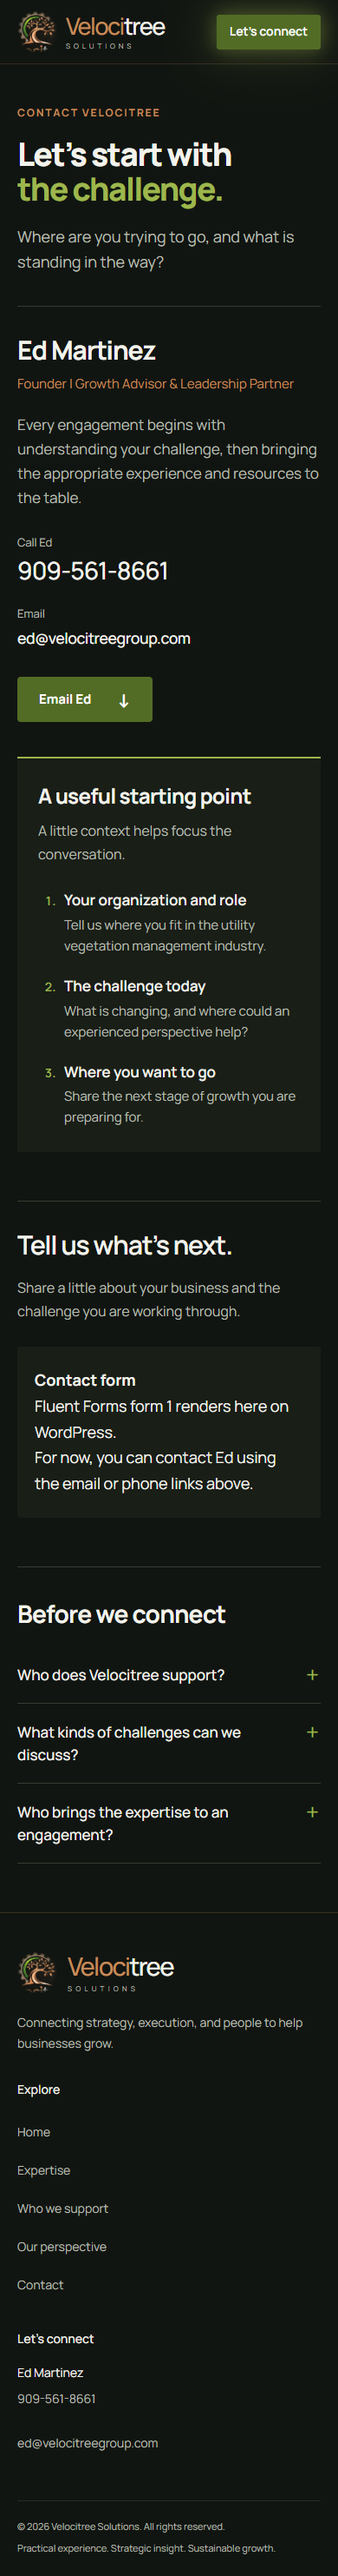
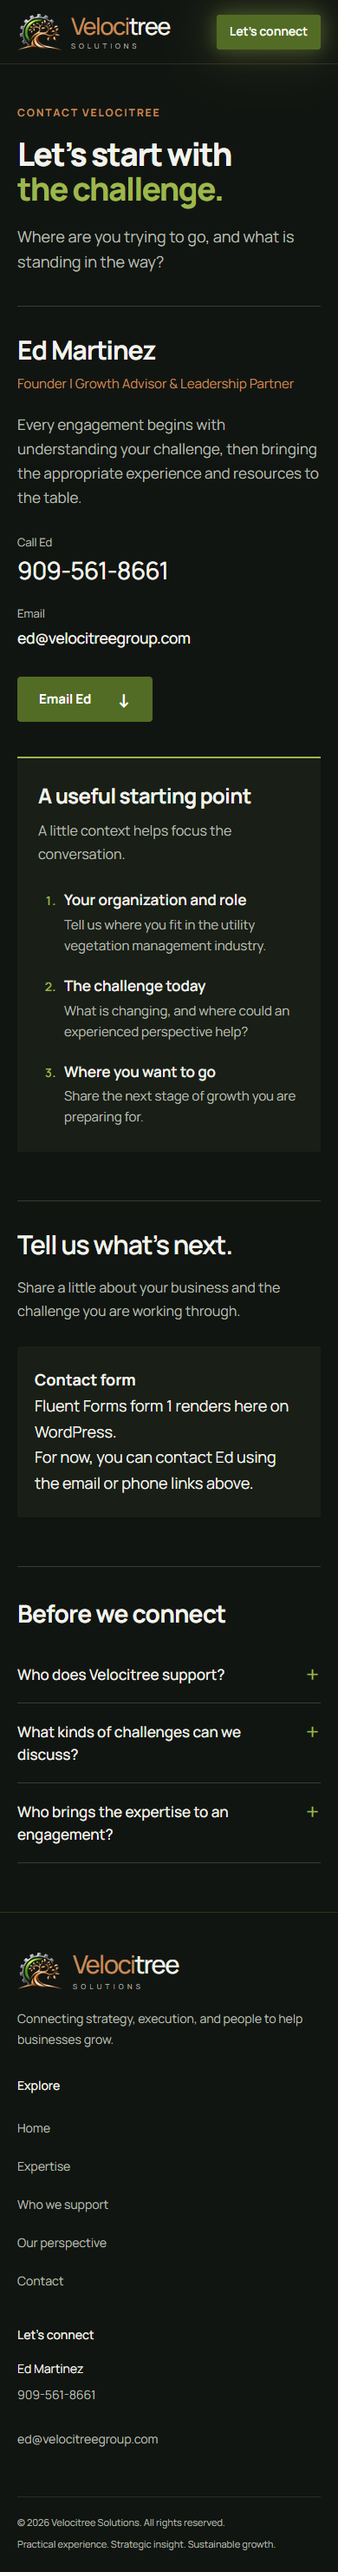
photo updates

diff --git a/velocitree/preview/velocitree-home-preview.html b/velocitree/preview/velocitree-home-preview.html
@@ -59,27 +59,22 @@
     flex: 0 0 auto;
     color: #f3f3ec !important;
   }
+  /* The emblem art is pre-trimmed with a transparent field, so it needs no crop or mask. */
   .vts-header .vts-brand-emblem {
-    position: relative;
     display: block;
-    width: 46px;
-    height: 47px;
-    overflow: hidden;
-    flex: 0 0 46px;
-    -webkit-mask-image: radial-gradient(ellipse at center, #000 56%, transparent 74%);
-    mask-image: radial-gradient(ellipse at center, #000 56%, transparent 74%);
+    flex: 0 0 52px;
+    width: 52px;
+    height: 42px;
   }
   .vts-header .vts-brand-emblem img {
-    position: absolute;
-    top: -5px;
-    left: -39px;
     display: block;
-    width: 282px;
-    height: 336px;
+    width: 100%;
+    height: 100%;
     max-width: none;
     margin: 0;
     padding: 0;
     border: 0;
+    object-fit: contain;
   }
   .vts-header .vts-brand-wordmark { display: block; font-size: 27px; font-weight: 500; letter-spacing: -1.45px; line-height: 1; }
   .vts-header .vts-brand-wordmark > span { color: #c38b59 !important; }
@@ -330,6 +325,8 @@
     .vts-hero .vts-hero__actions { margin-top: 22px; gap: 10px; }
     .vts-hero .vts-hero__button { min-width: 0; padding: 12px 21px; min-height: 45px; font-size: 11px; }
   }
+  /* Phones load a pre-cropped portrait frame, so the art is already positioned. */
+  @media (max-width: 480px) { .vts-hero .vts-hero__image { object-position: center 50%; } }
   @media (prefers-reduced-motion: reduce) { .vts-hero .vts-hero__button { transition: none; } }
 
   .vts-footer, .vts-footer * { box-sizing: border-box; }
@@ -351,8 +348,8 @@
   .vts-footer .vts-footer-inner { width: min(1280px, calc(100% - 80px)); margin-inline: auto; }
   .vts-footer .vts-footer-grid { display: grid; grid-template-columns: 1.3fr .65fr 1fr; gap: 76px; }
   .vts-footer .vts-footer-brand { display: inline-flex; align-items: center; gap: 12px; width: fit-content; color: #f3f3ec !important; }
-  .vts-footer .vts-footer-emblem { position: relative; display: block; flex: 0 0 46px; width: 46px; height: 47px; overflow: hidden; -webkit-mask-image: radial-gradient(ellipse at center, #000 56%, transparent 74%); mask-image: radial-gradient(ellipse at center, #000 56%, transparent 74%); }
-  .vts-footer .vts-footer-emblem img { position: absolute; top: -5px; left: -39px; display: block; width: 282px; height: 336px; max-width: none; margin: 0; padding: 0; border: 0; }
+  .vts-footer .vts-footer-emblem { display: block; flex: 0 0 52px; width: 52px; height: 42px; }
+  .vts-footer .vts-footer-emblem img { display: block; width: 100%; height: 100%; max-width: none; margin: 0; padding: 0; border: 0; object-fit: contain; }
   .vts-footer .vts-footer-wordmark { display: block; color: #f3f3ec !important; font-size: 29px; font-weight: 500; line-height: 1; letter-spacing: -1.6px; }
   .vts-footer .vts-footer-wordmark > span { color: #c38b59 !important; }
   .vts-footer .vts-footer-subline { display: block; margin-top: 7px; color: #b8beb1 !important; font-size: 8px; line-height: 1; letter-spacing: 4.3px; text-transform: uppercase; }
@@ -388,13 +385,13 @@
   <script src="../assets/js/shared.js" defer></script>
 </head>
 <body data-vts-preview-page="home">
-<!-- Velocitree GitPress managed header | version 2026-09-11.5 -->
+<!-- Velocitree GitPress managed header | version 2026-09-11.6 -->
 
 <header class="vts-header site-header" id="siteHeader" data-vts-header>
   <a class="vts-skip-link" href="#main-content">Skip to content</a>
   <div class="vts-header-inner">
     <a class="vts-brand" href="velocitree-home-preview.html" aria-label="Velocitree Solutions home">
-      <span class="vts-brand-emblem" aria-hidden="true"><img src="../assets/images/velocitree-logo.webp" width="1149" height="1369" alt=""></span>
+      <span class="vts-brand-emblem" aria-hidden="true"><img src="../assets/images/vts-emblem.webp" srcset="../assets/images/vts-emblem.webp 1x, ../assets/images/vts-emblem-2x.webp 2x, ../assets/images/vts-emblem-3x.webp 3x" width="52" height="42" alt=""></span>
       <span><span class="vts-brand-wordmark"><span>Veloci</span>tree</span><span class="vts-brand-subline">Solutions</span></span>
     </a>
     <nav class="vts-desktop-nav" aria-label="Main navigation">
@@ -414,7 +411,13 @@
 <!-- VTS version 2026-09-09.2 | Client-reference hero; included inside home.html. -->
 
 <section class="vts-hero" aria-labelledby="vts-home-title">
-  <img class="vts-hero__image" src="../assets/images/uvm-hero.webp" width="1672" height="941" alt="Arborist working above a forested utility corridor at sunset" fetchpriority="high">
+  <picture>
+    <source media="(max-width: 480px)" srcset="../assets/images/vts-hero-mobile.webp" width="640" height="941">
+    <img class="vts-hero__image" src="../assets/images/vts-hero-1280.webp"
+         srcset="../assets/images/vts-hero-640.webp 640w, ../assets/images/vts-hero-960.webp 960w, ../assets/images/vts-hero-1280.webp 1280w, ../assets/images/vts-hero-1672.webp 1672w"
+         sizes="(max-width: 767px) 1226px, 100vw"
+         width="1672" height="941" alt="Arborist climbing a tree above a forested utility corridor at sunset" fetchpriority="high">
+  </picture>
   <div class="vts-hero__wrap">
     <div class="vts-hero__copy">
       <h1 class="vts-hero__title" id="vts-home-title">Growth changes<span>the business.</span></h1>
@@ -533,7 +536,7 @@
     <div class="vts-footer-grid">
       <div class="vts-footer-identity">
         <a class="vts-footer-brand" href="velocitree-home-preview.html" aria-label="Velocitree Solutions home">
-          <span class="vts-footer-emblem" aria-hidden="true"><img src="../assets/images/velocitree-logo.webp" width="1149" height="1369" alt="" loading="lazy"></span>
+          <span class="vts-footer-emblem" aria-hidden="true"><img src="../assets/images/vts-emblem.webp" srcset="../assets/images/vts-emblem.webp 1x, ../assets/images/vts-emblem-2x.webp 2x, ../assets/images/vts-emblem-3x.webp 3x" width="52" height="42" alt="" loading="lazy"></span>
           <span><span class="vts-footer-wordmark"><span>Veloci</span>tree</span><span class="vts-footer-subline">Solutions</span></span>
         </a>
         <p class="vts-footer-description">Connecting strategy, execution, and people to help businesses grow.</p>

diff --git a/velocitree/preview/velocitree-contact-preview.html b/velocitree/preview/velocitree-contact-preview.html
@@ -59,27 +59,22 @@
     flex: 0 0 auto;
     color: #f3f3ec !important;
   }
+  /* The emblem art is pre-trimmed with a transparent field, so it needs no crop or mask. */
   .vts-header .vts-brand-emblem {
-    position: relative;
     display: block;
-    width: 46px;
-    height: 47px;
-    overflow: hidden;
-    flex: 0 0 46px;
-    -webkit-mask-image: radial-gradient(ellipse at center, #000 56%, transparent 74%);
-    mask-image: radial-gradient(ellipse at center, #000 56%, transparent 74%);
+    flex: 0 0 52px;
+    width: 52px;
+    height: 42px;
   }
   .vts-header .vts-brand-emblem img {
-    position: absolute;
-    top: -5px;
-    left: -39px;
     display: block;
-    width: 282px;
-    height: 336px;
+    width: 100%;
+    height: 100%;
     max-width: none;
     margin: 0;
     padding: 0;
     border: 0;
+    object-fit: contain;
   }
   .vts-header .vts-brand-wordmark { display: block; font-size: 27px; font-weight: 500; letter-spacing: -1.45px; line-height: 1; }
   .vts-header .vts-brand-wordmark > span { color: #c38b59 !important; }
@@ -457,8 +452,8 @@
   .vts-footer .vts-footer-inner { width: min(1280px, calc(100% - 80px)); margin-inline: auto; }
   .vts-footer .vts-footer-grid { display: grid; grid-template-columns: 1.3fr .65fr 1fr; gap: 76px; }
   .vts-footer .vts-footer-brand { display: inline-flex; align-items: center; gap: 12px; width: fit-content; color: #f3f3ec !important; }
-  .vts-footer .vts-footer-emblem { position: relative; display: block; flex: 0 0 46px; width: 46px; height: 47px; overflow: hidden; -webkit-mask-image: radial-gradient(ellipse at center, #000 56%, transparent 74%); mask-image: radial-gradient(ellipse at center, #000 56%, transparent 74%); }
-  .vts-footer .vts-footer-emblem img { position: absolute; top: -5px; left: -39px; display: block; width: 282px; height: 336px; max-width: none; margin: 0; padding: 0; border: 0; }
+  .vts-footer .vts-footer-emblem { display: block; flex: 0 0 52px; width: 52px; height: 42px; }
+  .vts-footer .vts-footer-emblem img { display: block; width: 100%; height: 100%; max-width: none; margin: 0; padding: 0; border: 0; object-fit: contain; }
   .vts-footer .vts-footer-wordmark { display: block; color: #f3f3ec !important; font-size: 29px; font-weight: 500; line-height: 1; letter-spacing: -1.6px; }
   .vts-footer .vts-footer-wordmark > span { color: #c38b59 !important; }
   .vts-footer .vts-footer-subline { display: block; margin-top: 7px; color: #b8beb1 !important; font-size: 8px; line-height: 1; letter-spacing: 4.3px; text-transform: uppercase; }
@@ -494,13 +489,13 @@
   <script src="../assets/js/shared.js" defer></script>
 </head>
 <body data-vts-preview-page="contact">
-<!-- Velocitree GitPress managed header | version 2026-09-11.5 -->
+<!-- Velocitree GitPress managed header | version 2026-09-11.6 -->
 
 <header class="vts-header site-header" id="siteHeader" data-vts-header>
   <a class="vts-skip-link" href="#main-content">Skip to content</a>
   <div class="vts-header-inner">
     <a class="vts-brand" href="velocitree-home-preview.html" aria-label="Velocitree Solutions home">
-      <span class="vts-brand-emblem" aria-hidden="true"><img src="../assets/images/velocitree-logo.webp" width="1149" height="1369" alt=""></span>
+      <span class="vts-brand-emblem" aria-hidden="true"><img src="../assets/images/vts-emblem.webp" srcset="../assets/images/vts-emblem.webp 1x, ../assets/images/vts-emblem-2x.webp 2x, ../assets/images/vts-emblem-3x.webp 3x" width="52" height="42" alt=""></span>
       <span><span class="vts-brand-wordmark"><span>Veloci</span>tree</span><span class="vts-brand-subline">Solutions</span></span>
     </a>
     <nav class="vts-desktop-nav" aria-label="Main navigation">
@@ -606,7 +601,7 @@
     <div class="vts-footer-grid">
       <div class="vts-footer-identity">
         <a class="vts-footer-brand" href="velocitree-home-preview.html" aria-label="Velocitree Solutions home">
-          <span class="vts-footer-emblem" aria-hidden="true"><img src="../assets/images/velocitree-logo.webp" width="1149" height="1369" alt="" loading="lazy"></span>
+          <span class="vts-footer-emblem" aria-hidden="true"><img src="../assets/images/vts-emblem.webp" srcset="../assets/images/vts-emblem.webp 1x, ../assets/images/vts-emblem-2x.webp 2x, ../assets/images/vts-emblem-3x.webp 3x" width="52" height="42" alt="" loading="lazy"></span>
           <span><span class="vts-footer-wordmark"><span>Veloci</span>tree</span><span class="vts-footer-subline">Solutions</span></span>
         </a>
         <p class="vts-footer-description">Connecting strategy, execution, and people to help businesses grow.</p>

diff --git a/velocitree/header.html b/velocitree/header.html
@@ -1,4 +1,4 @@
-<!-- Velocitree GitPress managed header | version 2026-09-11.5 -->
+<!-- Velocitree GitPress managed header | version 2026-09-11.6 -->
 <style>
   @font-face { font-family: "VTS Sans"; font-style: normal; font-weight: 400; font-display: swap; src: url("https://raw.githubusercontent.com/citrynmarketingdevelopment/wp-landingpages/main/velocitree/assets/fonts/manrope-400.ttf") format("truetype"); }
   @font-face { font-family: "VTS Sans"; font-style: normal; font-weight: 500; font-display: swap; src: url("https://raw.githubusercontent.com/citrynmarketingdevelopment/wp-landingpages/main/velocitree/assets/fonts/manrope-500.ttf") format("truetype"); }
@@ -46,27 +46,22 @@
     flex: 0 0 auto;
     color: #f3f3ec !important;
   }
+  /* The emblem art is pre-trimmed with a transparent field, so it needs no crop or mask. */
   .vts-header .vts-brand-emblem {
-    position: relative;
     display: block;
-    width: 46px;
-    height: 47px;
-    overflow: hidden;
-    flex: 0 0 46px;
-    -webkit-mask-image: radial-gradient(ellipse at center, #000 56%, transparent 74%);
-    mask-image: radial-gradient(ellipse at center, #000 56%, transparent 74%);
+    flex: 0 0 52px;
+    width: 52px;
+    height: 42px;
   }
   .vts-header .vts-brand-emblem img {
-    position: absolute;
-    top: -5px;
-    left: -39px;
     display: block;
-    width: 282px;
-    height: 336px;
+    width: 100%;
+    height: 100%;
     max-width: none;
     margin: 0;
     padding: 0;
     border: 0;
+    object-fit: contain;
   }
   .vts-header .vts-brand-wordmark { display: block; font-size: 27px; font-weight: 500; letter-spacing: -1.45px; line-height: 1; }
   .vts-header .vts-brand-wordmark > span { color: #c38b59 !important; }
@@ -133,7 +128,7 @@
   <a class="vts-skip-link" href="#main-content">Skip to content</a>
   <div class="vts-header-inner">
     <a class="vts-brand" href="/" aria-label="Velocitree Solutions home">
-      <span class="vts-brand-emblem" aria-hidden="true"><img src="https://raw.githubusercontent.com/citrynmarketingdevelopment/wp-landingpages/main/velocitree/assets/images/velocitree-logo.webp" width="1149" height="1369" alt=""></span>
+      <span class="vts-brand-emblem" aria-hidden="true"><img src="https://raw.githubusercontent.com/citrynmarketingdevelopment/wp-landingpages/main/velocitree/assets/images/vts-emblem.webp" srcset="https://raw.githubusercontent.com/citrynmarketingdevelopment/wp-landingpages/main/velocitree/assets/images/vts-emblem.webp 1x, https://raw.githubusercontent.com/citrynmarketingdevelopment/wp-landingpages/main/velocitree/assets/images/vts-emblem-2x.webp 2x, https://raw.githubusercontent.com/citrynmarketingdevelopment/wp-landingpages/main/velocitree/assets/images/vts-emblem-3x.webp 3x" width="52" height="42" alt=""></span>
       <span><span class="vts-brand-wordmark"><span>Veloci</span>tree</span><span class="vts-brand-subline">Solutions</span></span>
     </a>
     <nav class="vts-desktop-nav" aria-label="Main navigation">

diff --git a/velocitree/footer.html b/velocitree/footer.html
@@ -19,8 +19,8 @@
   .vts-footer .vts-footer-inner { width: min(1280px, calc(100% - 80px)); margin-inline: auto; }
   .vts-footer .vts-footer-grid { display: grid; grid-template-columns: 1.3fr .65fr 1fr; gap: 76px; }
   .vts-footer .vts-footer-brand { display: inline-flex; align-items: center; gap: 12px; width: fit-content; color: #f3f3ec !important; }
-  .vts-footer .vts-footer-emblem { position: relative; display: block; flex: 0 0 46px; width: 46px; height: 47px; overflow: hidden; -webkit-mask-image: radial-gradient(ellipse at center, #000 56%, transparent 74%); mask-image: radial-gradient(ellipse at center, #000 56%, transparent 74%); }
-  .vts-footer .vts-footer-emblem img { position: absolute; top: -5px; left: -39px; display: block; width: 282px; height: 336px; max-width: none; margin: 0; padding: 0; border: 0; }
+  .vts-footer .vts-footer-emblem { display: block; flex: 0 0 52px; width: 52px; height: 42px; }
+  .vts-footer .vts-footer-emblem img { display: block; width: 100%; height: 100%; max-width: none; margin: 0; padding: 0; border: 0; object-fit: contain; }
   .vts-footer .vts-footer-wordmark { display: block; color: #f3f3ec !important; font-size: 29px; font-weight: 500; line-height: 1; letter-spacing: -1.6px; }
   .vts-footer .vts-footer-wordmark > span { color: #c38b59 !important; }
   .vts-footer .vts-footer-subline { display: block; margin-top: 7px; color: #b8beb1 !important; font-size: 8px; line-height: 1; letter-spacing: 4.3px; text-transform: uppercase; }
@@ -57,7 +57,7 @@
     <div class="vts-footer-grid">
       <div class="vts-footer-identity">
         <a class="vts-footer-brand" href="/" aria-label="Velocitree Solutions home">
-          <span class="vts-footer-emblem" aria-hidden="true"><img src="https://raw.githubusercontent.com/citrynmarketingdevelopment/wp-landingpages/main/velocitree/assets/images/velocitree-logo.webp" width="1149" height="1369" alt="" loading="lazy"></span>
+          <span class="vts-footer-emblem" aria-hidden="true"><img src="https://raw.githubusercontent.com/citrynmarketingdevelopment/wp-landingpages/main/velocitree/assets/images/vts-emblem.webp" srcset="https://raw.githubusercontent.com/citrynmarketingdevelopment/wp-landingpages/main/velocitree/assets/images/vts-emblem.webp 1x, https://raw.githubusercontent.com/citrynmarketingdevelopment/wp-landingpages/main/velocitree/assets/images/vts-emblem-2x.webp 2x, https://raw.githubusercontent.com/citrynmarketingdevelopment/wp-landingpages/main/velocitree/assets/images/vts-emblem-3x.webp 3x" width="52" height="42" alt="" loading="lazy"></span>
           <span><span class="vts-footer-wordmark"><span>Veloci</span>tree</span><span class="vts-footer-subline">Solutions</span></span>
         </a>
         <p class="vts-footer-description">Connecting strategy, execution, and people to help businesses grow.</p>

diff --git a/velocitree/home.html b/velocitree/home.html
@@ -192,10 +192,18 @@
     .vts-hero .vts-hero__actions { margin-top: 22px; gap: 10px; }
     .vts-hero .vts-hero__button { min-width: 0; padding: 12px 21px; min-height: 45px; font-size: 11px; }
   }
+  /* Phones load a pre-cropped portrait frame, so the art is already positioned. */
+  @media (max-width: 480px) { .vts-hero .vts-hero__image { object-position: center 50%; } }
   @media (prefers-reduced-motion: reduce) { .vts-hero .vts-hero__button { transition: none; } }
 </style>
 <section class="vts-hero" aria-labelledby="vts-home-title">
-  <img class="vts-hero__image" src="https://raw.githubusercontent.com/citrynmarketingdevelopment/wp-landingpages/main/velocitree/assets/images/uvm-hero.webp" width="1672" height="941" alt="Arborist working above a forested utility corridor at sunset" fetchpriority="high">
+  <picture>
+    <source media="(max-width: 480px)" srcset="https://raw.githubusercontent.com/citrynmarketingdevelopment/wp-landingpages/main/velocitree/assets/images/vts-hero-mobile.webp" width="640" height="941">
+    <img class="vts-hero__image" src="https://raw.githubusercontent.com/citrynmarketingdevelopment/wp-landingpages/main/velocitree/assets/images/vts-hero-1280.webp"
+         srcset="https://raw.githubusercontent.com/citrynmarketingdevelopment/wp-landingpages/main/velocitree/assets/images/vts-hero-640.webp 640w, https://raw.githubusercontent.com/citrynmarketingdevelopment/wp-landingpages/main/velocitree/assets/images/vts-hero-960.webp 960w, https://raw.githubusercontent.com/citrynmarketingdevelopment/wp-landingpages/main/velocitree/assets/images/vts-hero-1280.webp 1280w, https://raw.githubusercontent.com/citrynmarketingdevelopment/wp-landingpages/main/velocitree/assets/images/vts-hero-1672.webp 1672w"
+         sizes="(max-width: 767px) 1226px, 100vw"
+         width="1672" height="941" alt="Arborist climbing a tree above a forested utility corridor at sunset" fetchpriority="high">
+  </picture>
   <div class="vts-hero__wrap">
     <div class="vts-hero__copy">
       <h1 class="vts-hero__title" id="vts-home-title">Growth changes<span>the business.</span></h1>

diff --git a/velocitree/hero.html b/velocitree/hero.html
@@ -36,10 +36,18 @@
     .vts-hero .vts-hero__actions { margin-top: 22px; gap: 10px; }
     .vts-hero .vts-hero__button { min-width: 0; padding: 12px 21px; min-height: 45px; font-size: 11px; }
   }
+  /* Phones load a pre-cropped portrait frame, so the art is already positioned. */
+  @media (max-width: 480px) { .vts-hero .vts-hero__image { object-position: center 50%; } }
   @media (prefers-reduced-motion: reduce) { .vts-hero .vts-hero__button { transition: none; } }
 </style>
 <section class="vts-hero" aria-labelledby="vts-home-title">
-  <img class="vts-hero__image" src="https://raw.githubusercontent.com/citrynmarketingdevelopment/wp-landingpages/main/velocitree/assets/images/uvm-hero.webp" width="1672" height="941" alt="Arborist working above a forested utility corridor at sunset" fetchpriority="high">
+  <picture>
+    <source media="(max-width: 480px)" srcset="https://raw.githubusercontent.com/citrynmarketingdevelopment/wp-landingpages/main/velocitree/assets/images/vts-hero-mobile.webp" width="640" height="941">
+    <img class="vts-hero__image" src="https://raw.githubusercontent.com/citrynmarketingdevelopment/wp-landingpages/main/velocitree/assets/images/vts-hero-1280.webp"
+         srcset="https://raw.githubusercontent.com/citrynmarketingdevelopment/wp-landingpages/main/velocitree/assets/images/vts-hero-640.webp 640w, https://raw.githubusercontent.com/citrynmarketingdevelopment/wp-landingpages/main/velocitree/assets/images/vts-hero-960.webp 960w, https://raw.githubusercontent.com/citrynmarketingdevelopment/wp-landingpages/main/velocitree/assets/images/vts-hero-1280.webp 1280w, https://raw.githubusercontent.com/citrynmarketingdevelopment/wp-landingpages/main/velocitree/assets/images/vts-hero-1672.webp 1672w"
+         sizes="(max-width: 767px) 1226px, 100vw"
+         width="1672" height="941" alt="Arborist climbing a tree above a forested utility corridor at sunset" fetchpriority="high">
+  </picture>
   <div class="vts-hero__wrap">
     <div class="vts-hero__copy">
       <h1 class="vts-hero__title" id="vts-home-title">Growth changes<span>the business.</span></h1>

diff --git a/velocitree/tools/qa_browser.py b/velocitree/tools/qa_browser.py
@@ -108,6 +108,30 @@ with sync_playwright() as p:
     page.goto((ROOT / 'preview/velocitree-home-preview.html').as_uri() + '#technology')
     page.wait_for_function('document.getElementById("technology").open')
     report['checks'].append('home: direct expertise anchor opens on initial load')
+
+    # Responsive art: phones take the pre-cropped portrait frame, wider screens the width ladder,
+    # and the emblem steps up by device pixel ratio.
+    for label, vp, dpr, expect_hero, expect_emblem in (
+        ('phone', {'width': 390, 'height': 844}, 3, 'vts-hero-mobile.webp', 'vts-emblem-3x.webp'),
+        ('phone-2x', {'width': 430, 'height': 932}, 2, 'vts-hero-mobile.webp', 'vts-emblem-2x.webp'),
+        ('tablet', {'width': 768, 'height': 1024}, 2, 'vts-hero-1672.webp', 'vts-emblem-2x.webp'),
+        ('desktop', {'width': 1440, 'height': 900}, 1, 'vts-hero-1672.webp', 'vts-emblem.webp'),
+    ):
+        art = browser.new_context(viewport=vp, device_scale_factor=dpr)
+        art_page = art.new_page()
+        navigate(art_page, 'home')
+        hero = art_page.locator('.vts-hero__image')
+        emblem = art_page.locator('.vts-brand-emblem img')
+        assert hero.evaluate('(e)=>e.currentSrc').endswith(expect_hero), (label, hero.evaluate('(e)=>e.currentSrc'))
+        assert emblem.evaluate('(e)=>e.currentSrc').endswith(expect_emblem), (label, emblem.evaluate('(e)=>e.currentSrc'))
+        assert hero.evaluate('(e)=>e.complete && e.naturalWidth > 0')
+        # The portrait crop is already framed, so it must not be re-offset.
+        pos = hero.evaluate('(e)=>getComputedStyle(e).objectPosition')
+        assert pos == ('50% 50%' if expect_hero == 'vts-hero-mobile.webp' else '50% 43%'), (label, pos)
+        # The emblem keys to transparency; a stray opaque field would break the dark bar.
+        assert emblem.evaluate('(e)=>e.naturalWidth') <= 156
+        report['checks'].append(f'{label}: hero serves {expect_hero} and the emblem serves {expect_emblem}')
+        art.close()
     assert '[fluentform id="1"]' in (ROOT / 'contact.html').read_text(encoding='utf-8')
     navigate(page, 'contact')
     assert page.locator('.vts-contact-form .vts-form-preview').is_visible()

diff --git a/velocitree/README.md b/velocitree/README.md
@@ -90,7 +90,7 @@ The latest September 9 redesign follows the client's hero reference: uppercase t
 
 See `content-audit.md` for a section-by-section comparison against the capability card, including restored content.
 
-The three displayed images use WebP copies of the original PNGs at the same dimensions (Pillow WebP quality 88, method 6). Originals remain in the repository. Combined image payload falls from 6,116,391 to 624,220 bytes, about 90% smaller. A local Lighthouse mobile audit scored 68 performance, 100 accessibility and 96 best practices, with 0 ms total blocking time and 0.001 layout shift. Simulated LCP was 6.6 seconds, so the mobile performance target is not yet met; production hosting, caching and further font/image optimization need separate verification. The standalone previews intentionally remain noindex.
+Displayed images ship as WebP derivatives generated from the supplied originals, which stay in the repository. The header and footer emblem comes from `vts logo only 9.11.webp`: the pure-black field is flood-filled from the edges to transparency (so dark pixels inside the artwork survive), trimmed to the content box, and written at 52x42, 104x84 and 156x126 for 1x/2x/3x `srcset`. Because the field is transparent and pre-trimmed, the emblem no longer needs the radial mask and negative-offset crop the previous square logo required. The hero comes from `VTS climber with logo in sun.webp` at 640, 960, 1280 and 1672 wide (q86 below 1280, q82 at and above). Phones get art direction instead: at 480px and under, a `<picture>` source serves `vts-hero-mobile.webp`, a 640x941 portrait crop taken at the same 85% horizontal position the mobile `object-position` used, with `object-position` reset to centre for that source. The mobile box is 100vw by ~690px, so `object-fit: cover` scales by height and only ~532 source pixels are ever visible; the crop carries exactly those pixels at 86KB instead of 184KB for the full frame, at identical rendered sharpness. Above 480px the width ladder applies with `sizes="(max-width: 767px) 1226px, 100vw"`, the 1226px accounting for that same cover-crop rather than the element width. A local Lighthouse mobile audit of the earlier build scored 68 performance, 100 accessibility and 96 best practices, with 0 ms total blocking time and 0.001 layout shift; simulated LCP was 6.6 seconds, so production hosting, caching and further font optimization still need separate verification. The standalone previews intentionally remain noindex.
 
 Image preparation used the built-in image-generation tool:
 
@@ -100,6 +100,6 @@ Image preparation used the built-in image-generation tool:
 
 ## Deployment verification
 
-Local validation covers 7 HTML files for GitPress boundaries, IDs, asset references and navigation; 37 Chrome browser checks cover both pages at 320, 390, 768, 1024 and 1440px, with and without JavaScript, plus native disclosures, the pinned mobile bar, the single-line header call to action and its resilience against theme CSS overrides, contact navigation, keyboard skip links, reduced-motion rendering, service deep links and the form preview boundary. Full screenshots and `qa-report.json` are in `preview/`. Browser verification can be rerun with `python velocitree/tools/qa_browser.py` after installing the optional `playwright` Python package; it uses installed Google Chrome.
+Local validation covers 7 HTML files for GitPress boundaries, IDs, asset references and navigation; 41 Chrome browser checks cover both pages at 320, 390, 768, 1024 and 1440px, with and without JavaScript, plus native disclosures, the pinned mobile bar, the single-line header call to action and its resilience against theme CSS overrides, responsive hero and emblem source selection by viewport and pixel ratio, contact navigation, keyboard skip links, reduced-motion rendering, service deep links and the form preview boundary. Full screenshots and `qa-report.json` are in `preview/`. Browser verification can be rerun with `python velocitree/tools/qa_browser.py` after installing the optional `playwright` Python package; it uses installed Google Chrome.
 
 This package is prepared locally. Live WordPress rendering, GitPress sanitization/caching and form integration require the target WordPress site. After deploying, confirm the fragment version markers, exactly one header/footer, fonts and images, native FAQ behavior, mobile layout and SEO settings. Purge GitPress’s content cache if the deployed marker is stale.
